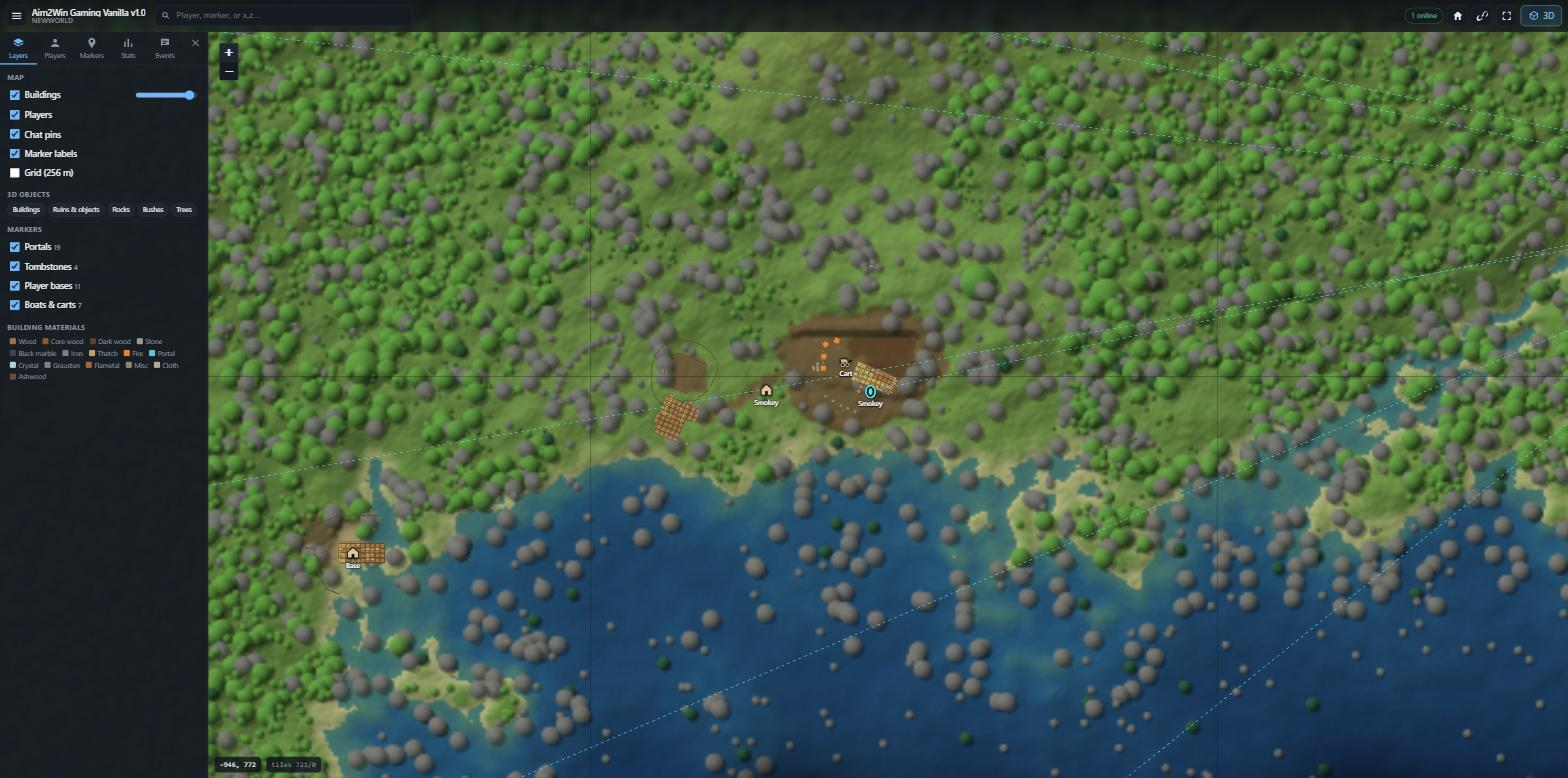
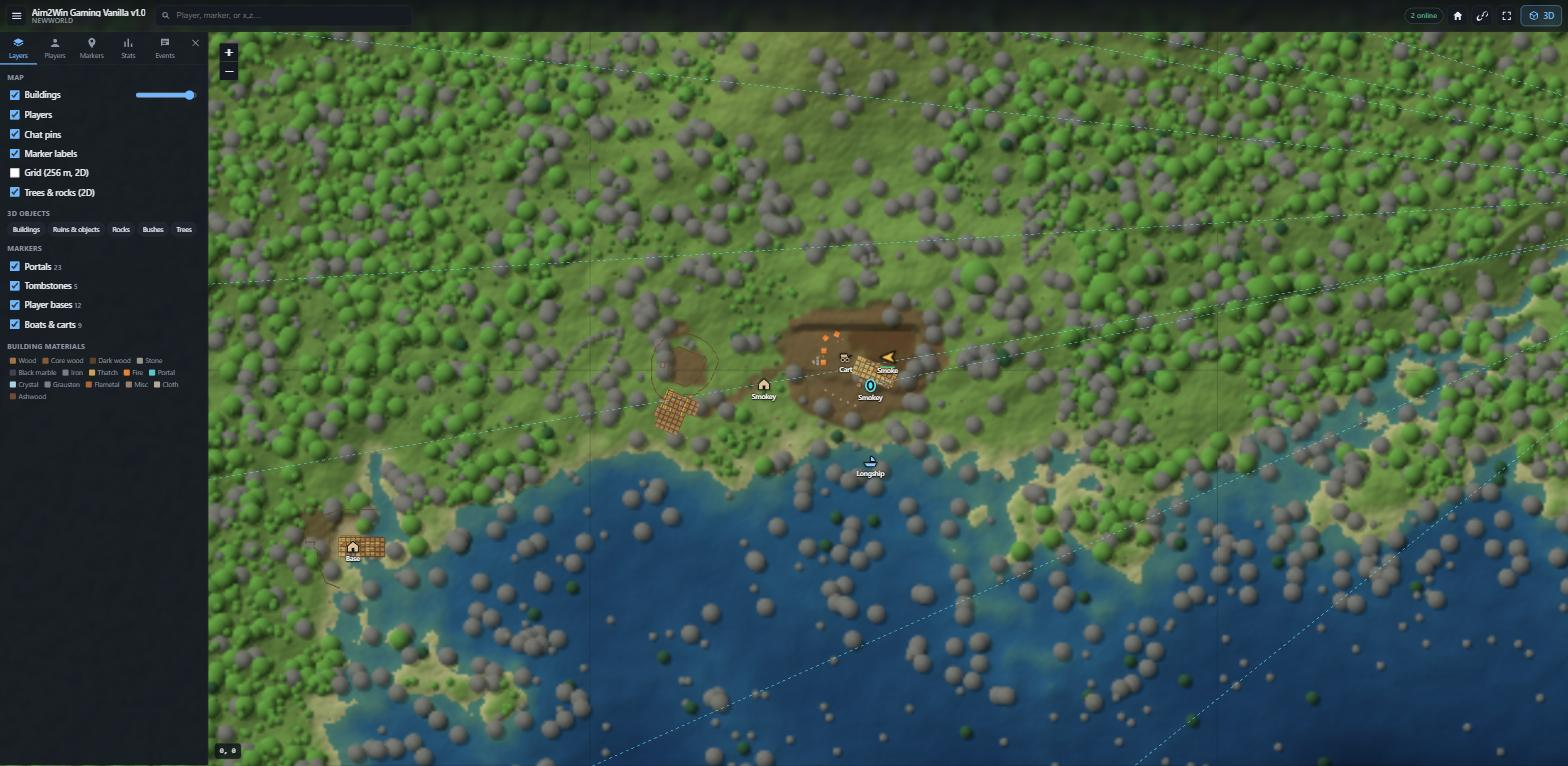
Screenshots from the release build: clean ground, overlay layer, seamless tiles

diff --git a/docs/LISTING.md b/docs/LISTING.md
@@ -4,14 +4,16 @@ Same package for both stores: `dist/ValheimWebMap-<version>.zip` from
 `build.ps1`. Zip root holds `manifest.json`, `README.md`, `CHANGELOG.md`,
 `icon.png` (256×256), `LICENSE`, `WebMap/`. Never any `map_data/`.
 
-Screenshots in `docs/screenshots/` (1568×778, from the live server):
+Screenshots in `docs/screenshots/` (1568 px wide, from the live server):
 
-* `08-hero-3d` house in the forest by the water, `04-players` Vhauss base
-  with the Players tab, `03-base-3d` Smokey longhouse and fields,
-  `06-markers` pier house in the pines with the Markers tab, `05-stats`,
-  `09-lake-3d` wide lake view.
-* `01-overview-2d` whole island with fog, `02-base-2d` base footprints,
-  `07-events`.
+* `08-hero-3d` pine forest with birches, `03-base-3d` Vhauss base by the
+  water, `09-pier-3d` pier house in the pines, `10-shore-3d` shore base,
+  `04-players` Smokey longhouse with the Players tab, `05-stats`,
+  `06-markers` portal hub with the Markers tab.
+* `01-overview-2d` whole island with fog, `02-base-2d` base footprints with
+  the tree and rock overlay, `07-events`.
+* Clips: `valheim-webmap-3d-tour.gif` (2D to 3D, orbit, trees toggle) and
+  `valheim-webmap-layers-markers.gif` (overlay toggle, marker jump, 3D).
 Upload the 3D ones first; stores show the first image as the cover.
 
 ## Thunderstore

diff --git a/README.md b/README.md
@@ -31,7 +31,7 @@ Server-side mod. Publishes live web map of your Valheim world. Share
 * Permalinks, search, mobile layout, dark UI, Discord webhook,
   `POST /announce`.
 
-![Player base in 3D](docs/screenshots/04-players.jpg)
+![Player base in 3D](docs/screenshots/03-base-3d.jpg)
 ![2D map](docs/screenshots/02-base-2d.jpg)
 ![Stats](docs/screenshots/05-stats.jpg)
 
